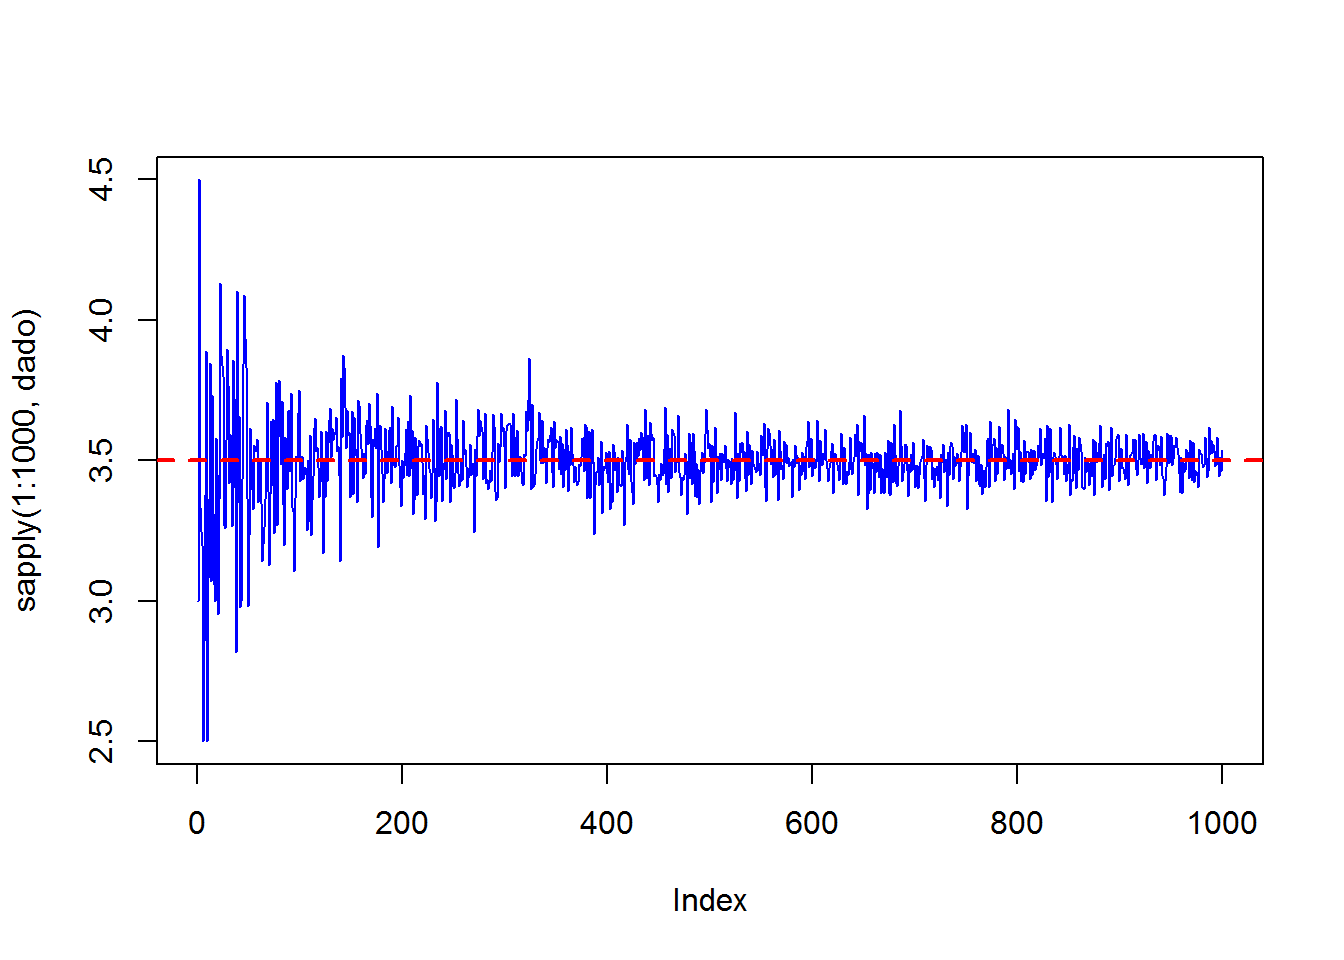
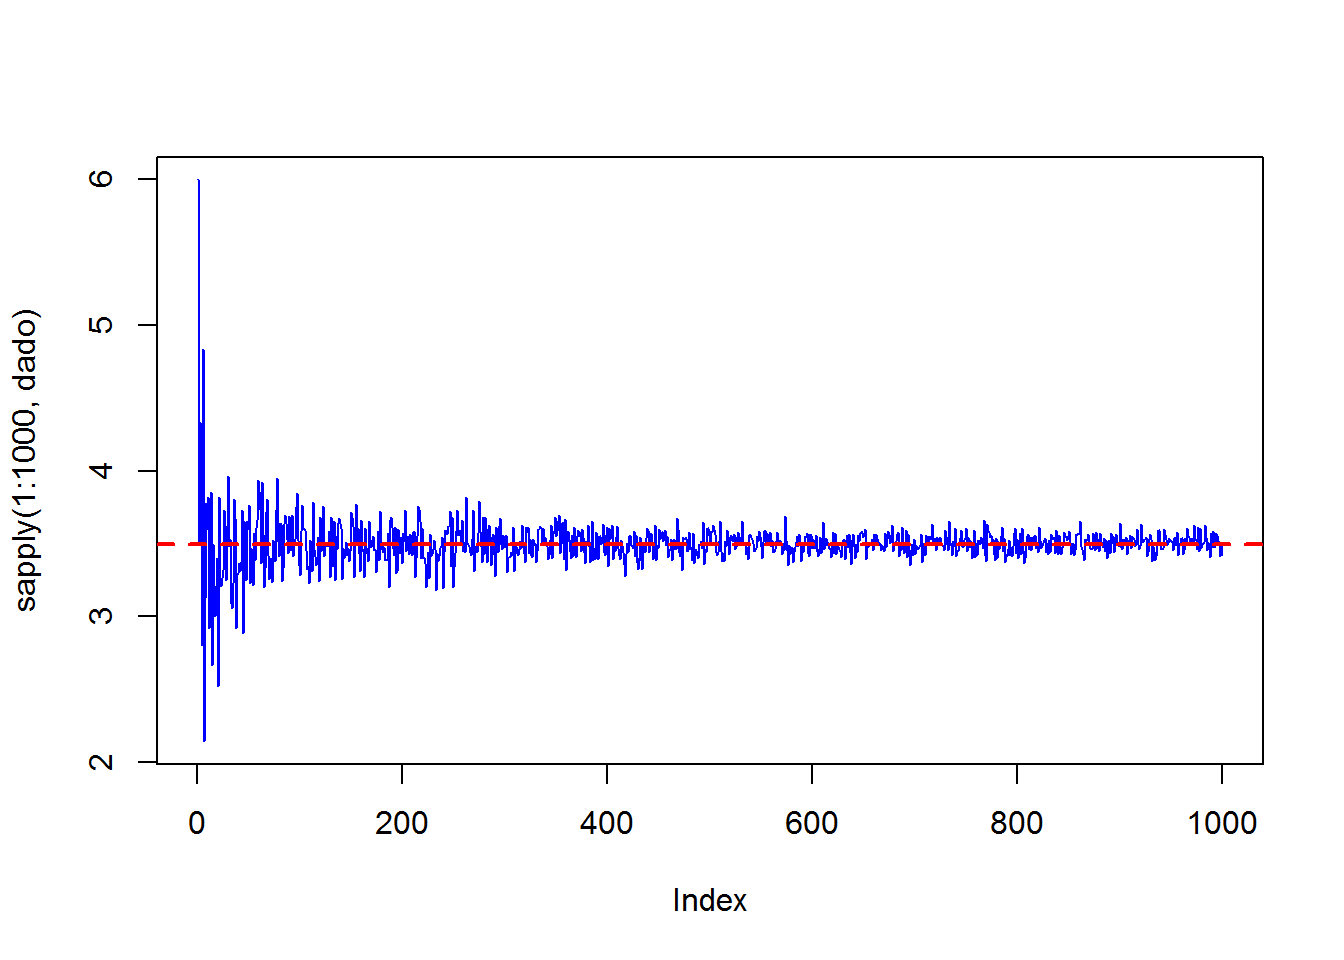
milsssss

diff --git a/HISTOGRAMAS.html b/HISTOGRAMAS.html
@@ -326,8 +326,8 @@ $(document).ready(function () {
 
 
 <p><img src="HISTOGRAMAS_files/figure-html/unnamed-chunk-1-1.png" width="672" /></p>
-<pre><code>##  [1] 1.000000 3.000000 2.333333 2.500000 3.800000 2.833333 3.857143 3.625000
-##  [9] 3.555556 3.900000</code></pre>
+<pre><code>##  [1] 6.000000 3.000000 4.666667 3.500000 3.000000 2.666667 2.571429 2.625000
+##  [9] 3.888889 3.900000</code></pre>
 <pre><code>## [1] 3.5</code></pre>
 <p><img src="HISTOGRAMAS_files/figure-html/unnamed-chunk-2-1.png" width="672" /></p>
 

diff --git a/index.html b/index.html
@@ -27,7 +27,7 @@
          <input onclick=ir() type=button value="Login" class="button">
          <input onclick=ir() type="button" value="Click me">
          <p>Al registrarte, aceptas nuestras Condiciones de uso y Política de privacidad.</p>
-         <p>si no tiene una cuenta <input onclick=ir() class="button" href="inicio.html">¡click aqui! </a></p>
+         <p>si no tiene una cuenta <a class="link" href="inicio.html">¡click aqui! </a></p>
          
          
      </div>

diff --git a/EXAMENES.html b/EXAMENES.html
@@ -336,8 +336,8 @@ $(document).ready(function () {
 <p><img src="EXAMENES_files/figure-html/unnamed-chunk-1-2.png" width="672" /></p>
 <pre><code>## co
 ##  black    red 
-## 0.7494 0.2506</code></pre>
-<pre><code>## [1] 0.2500511</code></pre>
+## 0.7454 0.2546</code></pre>
+<pre><code>## [1] 0.2500432</code></pre>
 
 <p><center>Copyright &copy; 2022 Skynet, Inc. All rights reserved.</center></p>
 
